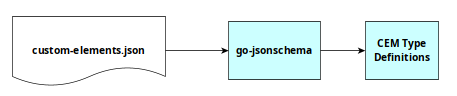
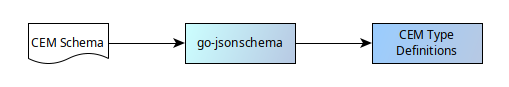
doc(talks): update slides

diff --git a/talks/Golang-Syd-May-2026/m3e.html b/talks/Golang-Syd-May-2026/m3e.html
@@ -20,7 +20,7 @@
 " lang="en-AU" data-marpit-pagination="1" style="--paginate:true;--theme:gaia;--style:section {
   font-size: 1.5em;
 }
-;" data-marpit-pagination-total="29">
+;" data-marpit-pagination-total="30">
 <h1 id="generating-gleam-bindings-for-a-typescript-library">Generating Gleam bindings for a TypeScript library</h1>
 <p>Bruce Smith<br />
 Golang-SYD<br />
@@ -32,7 +32,7 @@ Golang-SYD<br />
 " lang="en-AU" data-marpit-pagination="2" style="--paginate:true;--theme:gaia;--style:section {
   font-size: 1.5em;
 }
-;" data-marpit-pagination-total="29">
+;" data-marpit-pagination-total="30">
 <h1 id="tackling-the-to-do-list">Tackling the To-Do List</h1>
 <ul>
 <li data-marpit-fragment="1">
@@ -61,7 +61,7 @@ Golang-SYD<br />
 " lang="en-AU" data-marpit-pagination="3" style="--paginate:true;--theme:gaia;--style:section {
   font-size: 1.5em;
 }
-;" data-marpit-pagination-total="29">
+;" data-marpit-pagination-total="30">
 <h1 id="technology">Technology</h1>
 <ul>
 <li>
@@ -90,7 +90,7 @@ Golang-SYD<br />
 " lang="en-AU" data-marpit-pagination="4" style="--paginate:true;--theme:gaia;--style:section {
   font-size: 1.5em;
 }
-;" data-marpit-pagination-total="29">
+;" data-marpit-pagination-total="30">
 <h1 id="gleam">Gleam</h1>
 <ul>
 <li>Gleam is a pragmatic, impure, functional language</li>
@@ -105,7 +105,7 @@ Golang-SYD<br />
 " lang="en-AU" data-marpit-pagination="5" style="--paginate:true;--theme:gaia;--style:section {
   font-size: 1.5em;
 }
-;" data-marpit-pagination-total="29">
+;" data-marpit-pagination-total="30">
 <h1 id="lustre">Lustre</h1>
 <ul>
 <li>a web framework for Gleam</li>
@@ -121,7 +121,7 @@ Golang-SYD<br />
 " lang="en-AU" data-marpit-pagination="6" style="--paginate:true;--theme:gaia;--style:section {
   font-size: 1.5em;
 }
-;" data-marpit-pagination-total="29">
+;" data-marpit-pagination-total="30">
 <h1 id="material-3-expressive">Material 3 Expressive</h1>
 <p><em>&quot;A curated presentation of modular, accessible, and expressive Web Components built with fidelity to Google's Material Design 3. This library provides a comprehensive suite of reusable components, each crafted to deliver seamless integration, consistent theming, and intuitive user experiences&quot;</em></p>
 <p><img src="buttons.png" alt="" /></p>
@@ -133,7 +133,7 @@ Golang-SYD<br />
 " lang="en-AU" data-marpit-pagination="7" style="--paginate:true;--theme:gaia;--style:section {
   font-size: 1.5em;
 }
-;" data-marpit-pagination-total="29">
+;" data-marpit-pagination-total="30">
 <h1 id="custom-element-manifest">Custom Element Manifest</h1>
 <p><em>&quot;Codegen for Web Components - a file format that describes custom HTML elements&quot;</em></p>
 <p>Relies heavily on the TypeScript author conforming with JSDoc conventions</p>
@@ -159,7 +159,7 @@ Golang-SYD<br />
 " lang="en-AU" data-marpit-pagination="8" style="--paginate:true;--theme:gaia;--style:section {
   font-size: 1.5em;
 }
-;" data-marpit-pagination-total="29">
+;" data-marpit-pagination-total="30">
 <h1 id="go-jsonschema">go-jsonschema</h1>
 <p><em>&quot;This tool generates Go data types and structs that corresponds to definitions in the schema, along with unmarshalling code that validates the input JSON according to the schema's validation rules&quot;</em></p>
 <p><img src="go-jsonschema.png" alt="" /></p>
@@ -170,7 +170,7 @@ Golang-SYD<br />
 " lang="en-AU" data-marpit-pagination="9" style="--paginate:true;--theme:gaia;--style:section {
   font-size: 1.5em;
 }
-;" data-marpit-pagination-total="29">
+;" data-marpit-pagination-total="30">
 <h1 id="tree-sitter">Tree sitter</h1>
 <p><em>&quot;Tree-sitter is a parser generator tool and an incremental parsing library. It can build a concrete syntax tree for a source file and efficiently update the syntax tree as the source file is edited.&quot;</em></p>
 <h2 id="use-from-go-go-tree-sitter">Use from Go: go-tree-sitter</h2>
@@ -184,7 +184,7 @@ Golang-SYD<br />
 " lang="en-AU" data-marpit-pagination="10" style="--paginate:true;--theme:gaia;--style:section {
   font-size: 1.5em;
 }
-;" data-marpit-pagination-total="29">
+;" data-marpit-pagination-total="30">
 <h1 id="go">Go</h1>
 <h2 id="texttemplate">text/template</h2>
 <p>All Gleam code files and unit tests are generated using embedded templates from the<code>text/template</code> package</p>
@@ -207,7 +207,7 @@ pub <span class="hljs-keyword">type</span> Config {
 " lang="en-AU" data-marpit-pagination="11" style="--paginate:true;--theme:gaia;--style:section {
   font-size: 1.5em;
 }
-;" data-marpit-pagination-total="29">
+;" data-marpit-pagination-total="30">
 <h1 id="phases">Phases</h1>
 <p>Preparation: Generate Go type definitions from the CEM Schema</p>
 <ol>
@@ -221,7 +221,7 @@ pub <span class="hljs-keyword">type</span> Config {
 " lang="en-AU" data-marpit-pagination="12" style="--paginate:true;--theme:gaia;--style:section {
   font-size: 1.5em;
 }
-;" data-marpit-pagination-total="29">
+;" data-marpit-pagination-total="30">
 <h1 id="phases-1">Phases</h1>
 <p>Preparation: Generate Go type definitions from the CEM Schema</p>
 <ol>
@@ -236,7 +236,7 @@ pub <span class="hljs-keyword">type</span> Config {
 " lang="en-AU" data-marpit-pagination="13" style="--paginate:true;--theme:gaia;--style:section {
   font-size: 1.5em;
 }
-;" data-marpit-pagination-total="29">
+;" data-marpit-pagination-total="30">
 <h1 id="phases-2">Phases</h1>
 <p>Preparation: Generate Go type definitions from the CEM Schema</p>
 <ol>
@@ -252,7 +252,7 @@ pub <span class="hljs-keyword">type</span> Config {
 " lang="en-AU" data-marpit-pagination="14" style="--paginate:true;--theme:gaia;--style:section {
   font-size: 1.5em;
 }
-;" data-marpit-pagination-total="29">
+;" data-marpit-pagination-total="30">
 <h1 id="phases-3">Phases</h1>
 <p>Preparation: Generate Go type definitions from the CEM Schema</p>
 <ol>
@@ -269,7 +269,7 @@ pub <span class="hljs-keyword">type</span> Config {
 " lang="en-AU" data-marpit-pagination="15" style="--paginate:true;--theme:gaia;--style:section {
   font-size: 1.5em;
 }
-;" data-marpit-pagination-total="29">
+;" data-marpit-pagination-total="30">
 <h1 id="phases-4">Phases</h1>
 <p>Preparation: Generate Go type definitions from the CEM Schema</p>
 <ol>
@@ -287,7 +287,7 @@ pub <span class="hljs-keyword">type</span> Config {
 " lang="en-AU" data-marpit-pagination="16" style="--paginate:true;--theme:gaia;--style:section {
   font-size: 1.5em;
 }
-;" data-marpit-pagination-total="29">
+;" data-marpit-pagination-total="30">
 <h1 id="phases-5">Phases</h1>
 <p>Preparation: Generate Go type definitions from the CEM Schema</p>
 <ol>
@@ -306,7 +306,7 @@ pub <span class="hljs-keyword">type</span> Config {
 " lang="en-AU" data-marpit-pagination="17" style="--paginate:true;--theme:gaia;--style:section {
   font-size: 1.5em;
 }
-;" data-marpit-pagination-total="29">
+;" data-marpit-pagination-total="30">
 <h1 id="key-cem-transformations">Key CEM transformations</h1>
 <ul>
 <li>
@@ -334,7 +334,7 @@ Conflicting: component &quot;List&quot; -&gt; component &quot;MList&quot;</p>
 " lang="en-AU" data-marpit-pagination="18" style="--paginate:true;--theme:gaia;--style:section {
   font-size: 1.5em;
 }
-;" data-marpit-pagination-total="29">
+;" data-marpit-pagination-total="30">
 <h1 id="simple-gleam-module">Simple Gleam module</h1>
 <pre is="marp-pre" data-auto-scaling="downscale-only"><code class="language-gleam">import lustre/attribute.{type attribute}
 import lustre/element.{type Element}
@@ -365,7 +365,7 @@ pub fn render(
 " lang="en-AU" data-marpit-pagination="19" style="--paginate:true;--theme:gaia;--style:section {
   font-size: 1.5em;
 }
-;" data-marpit-pagination-total="29">
+;" data-marpit-pagination-total="30">
 <h1 id="imported-type">Imported type</h1>
 <pre is="marp-pre" data-auto-scaling="downscale-only"><code class="language-gleam">pub type BadgeSize {
   Small
@@ -388,7 +388,7 @@ pub fn to_string(level: BadgeSize) -&gt; String {
 " lang="en-AU" data-marpit-pagination="20" style="--paginate:true;--theme:gaia;--style:section {
   font-size: 1.5em;
 }
-;" data-marpit-pagination-total="29">
+;" data-marpit-pagination-total="30">
 <h1 id="simple-unit-test">Simple unit test</h1>
 <pre is="marp-pre" data-auto-scaling="downscale-only"><code class="language-gleam">import gleam/list
 
@@ -421,7 +421,7 @@ pub fn avatar_render_test() {
 " lang="en-AU" data-marpit-pagination="21" style="--paginate:true;--theme:gaia;--style:section {
   font-size: 1.5em;
 }
-;" data-marpit-pagination-total="29">
+;" data-marpit-pagination-total="30">
 <h1 id="tests">Tests</h1>
 <pre is="marp-pre" data-auto-scaling="downscale-only"><code class="language-bash">bruce@corunastylis:~/Dropbox/Code/m3e$ gleam check; gleam <span class="hljs-built_in">test</span>
    Compiled <span class="hljs-keyword">in</span> 1.85s
@@ -449,7 +449,7 @@ bruce@corunastylis:~/Dropbox/Code/m3e$
 " lang="en-AU" data-marpit-pagination="22" style="--paginate:true;--theme:gaia;--style:section {
   font-size: 1.5em;
 }
-;" data-marpit-pagination-total="29">
+;" data-marpit-pagination-total="30">
 <h1 id="gleam-builder-pattern">Gleam Builder Pattern</h1>
 <pre is="marp-pre" data-auto-scaling="downscale-only"><code class="language-gleam">  import m3e/button
 
@@ -465,7 +465,7 @@ bruce@corunastylis:~/Dropbox/Code/m3e$
 " lang="en-AU" data-marpit-pagination="23" style="--paginate:true;--theme:gaia;--style:section {
   font-size: 1.5em;
 }
-;" data-marpit-pagination-total="29">
+;" data-marpit-pagination-total="30">
 <h1 id="gleam-config-record">Gleam Config Record</h1>
 <pre is="marp-pre" data-auto-scaling="downscale-only"><code class="language-gleam">  import lustre/element
   import m3e/card
@@ -485,7 +485,7 @@ bruce@corunastylis:~/Dropbox/Code/m3e$
 " lang="en-AU" data-marpit-pagination="24" style="--paginate:true;--theme:gaia;--style:section {
   font-size: 1.5em;
 }
-;" data-marpit-pagination-total="29">
+;" data-marpit-pagination-total="30">
 <h1 id="semantic-boolean-types">Semantic Boolean Types</h1>
 <p>a.k.a. Sum Types or Gleam Custom Types</p>
 <p>Used to prevent &quot;boolean blindness&quot;, especially when functions take multiple boolean arguments</p>
@@ -503,7 +503,7 @@ pub type CaseSensitive {
 " lang="en-AU" data-marpit-pagination="25" style="--paginate:true;--theme:gaia;--style:section {
   font-size: 1.5em;
 }
-;" data-marpit-pagination-total="29">
+;" data-marpit-pagination-total="30">
 <h1 id="phantom-types">Phantom Types</h1>
 <p>Powerful, not currently used in the generated code. Potentially useful to add further type safety.</p>
 <pre is="marp-pre" data-auto-scaling="downscale-only"><code class="language-gleam">pub type Inches
@@ -528,7 +528,7 @@ add(two_cms, two_inches)
 " lang="en-AU" data-marpit-pagination="26" style="--paginate:true;--theme:gaia;--style:section {
   font-size: 1.5em;
 }
-;" data-marpit-pagination-total="29">
+;" data-marpit-pagination-total="30">
 <h1 id="open-challenge---custom-css-properties">Open Challenge - Custom CSS Properties</h1>
 <p>M3E provides a wide range of custom CSS properties for fine grained control over the appearance of a UI.</p>
 <p>The CEM documents the names and descriptions but not their default (fallback) value.</p>
@@ -540,7 +540,7 @@ add(two_cms, two_inches)
 " lang="en-AU" data-marpit-pagination="27" style="--paginate:true;--theme:gaia;--style:section {
   font-size: 1.5em;
 }
-;" data-marpit-pagination-total="29">
+;" data-marpit-pagination-total="30">
 <h1 id="restrictions---numeric-attributes">Restrictions - Numeric Attributes</h1>
 <p>A range of M3E component attributes are numeric. Documentation discusses minimum and/or maximum values for many of them, however the CEM schema does not (yet) support them</p>
 <p>My Gleam bindings therefore perform no range checks on numeric attributes</p>
@@ -551,7 +551,20 @@ add(two_cms, two_inches)
 " lang="en-AU" data-marpit-pagination="28" style="--paginate:true;--theme:gaia;--style:section {
   font-size: 1.5em;
 }
-;" data-marpit-pagination-total="29">
+;" data-marpit-pagination-total="30">
+<h1 id="other-projects">Other projects</h1>
+<h2 id="lustreui">lustre/ui</h2>
+<p><a href="https://hexdocs.pm/lustre_ui/">Lustre UI</a> is a pure Gleam UI library for Lustre. Last updated 2 years ago.</p>
+<h2 id="lustrestylish">lustre/stylish</h2>
+<p><a href="https://hexdocs.pm/lustre_stylish/">Lustre Stylish</a> is another pure Gleam library - <em>&quot;A declarative layout library for Lustre, inspired by elm-ui.&quot;</em></p>
+</section>
+</foreignObject></svg><svg data-marpit-svg="" viewBox="0 0 1280 720"><foreignObject width="1280" height="720"><section id="29" data-paginate="true" data-theme="gaia" data-style="section {
+  font-size: 1.5em;
+}
+" lang="en-AU" data-marpit-pagination="29" style="--paginate:true;--theme:gaia;--style:section {
+  font-size: 1.5em;
+}
+;" data-marpit-pagination-total="30">
 <h1 id="references">References</h1>
 <ol>
 <li><strong>Gleam</strong>: <a href="https://gleam.run">https://gleam.run</a></li>
@@ -566,13 +579,13 @@ add(two_cms, two_inches)
 <li><strong>Go JSON v2</strong>: <a href="https://go.dev/blog/jsonv2-exp">https://go.dev/blog/jsonv2-exp</a></li>
 </ol>
 </section>
-</foreignObject></svg><svg data-marpit-svg="" viewBox="0 0 1280 720"><foreignObject width="1280" height="720"><section id="29" data-paginate="true" data-theme="gaia" data-style="section {
+</foreignObject></svg><svg data-marpit-svg="" viewBox="0 0 1280 720"><foreignObject width="1280" height="720"><section id="30" data-paginate="true" data-theme="gaia" data-style="section {
   font-size: 1.5em;
 }
-" lang="en-AU" data-marpit-pagination="29" style="--paginate:true;--theme:gaia;--style:section {
+" lang="en-AU" data-marpit-pagination="30" style="--paginate:true;--theme:gaia;--style:section {
   font-size: 1.5em;
 }
-;" data-marpit-pagination-total="29">
+;" data-marpit-pagination-total="30">
 <h1 id="references-continued">References continued</h1>
 <ol start="11">
 <li><strong>Go text/template</strong>: <a href="https://pkg.go.dev/text/template">https://pkg.go.dev/text/template</a></li>
